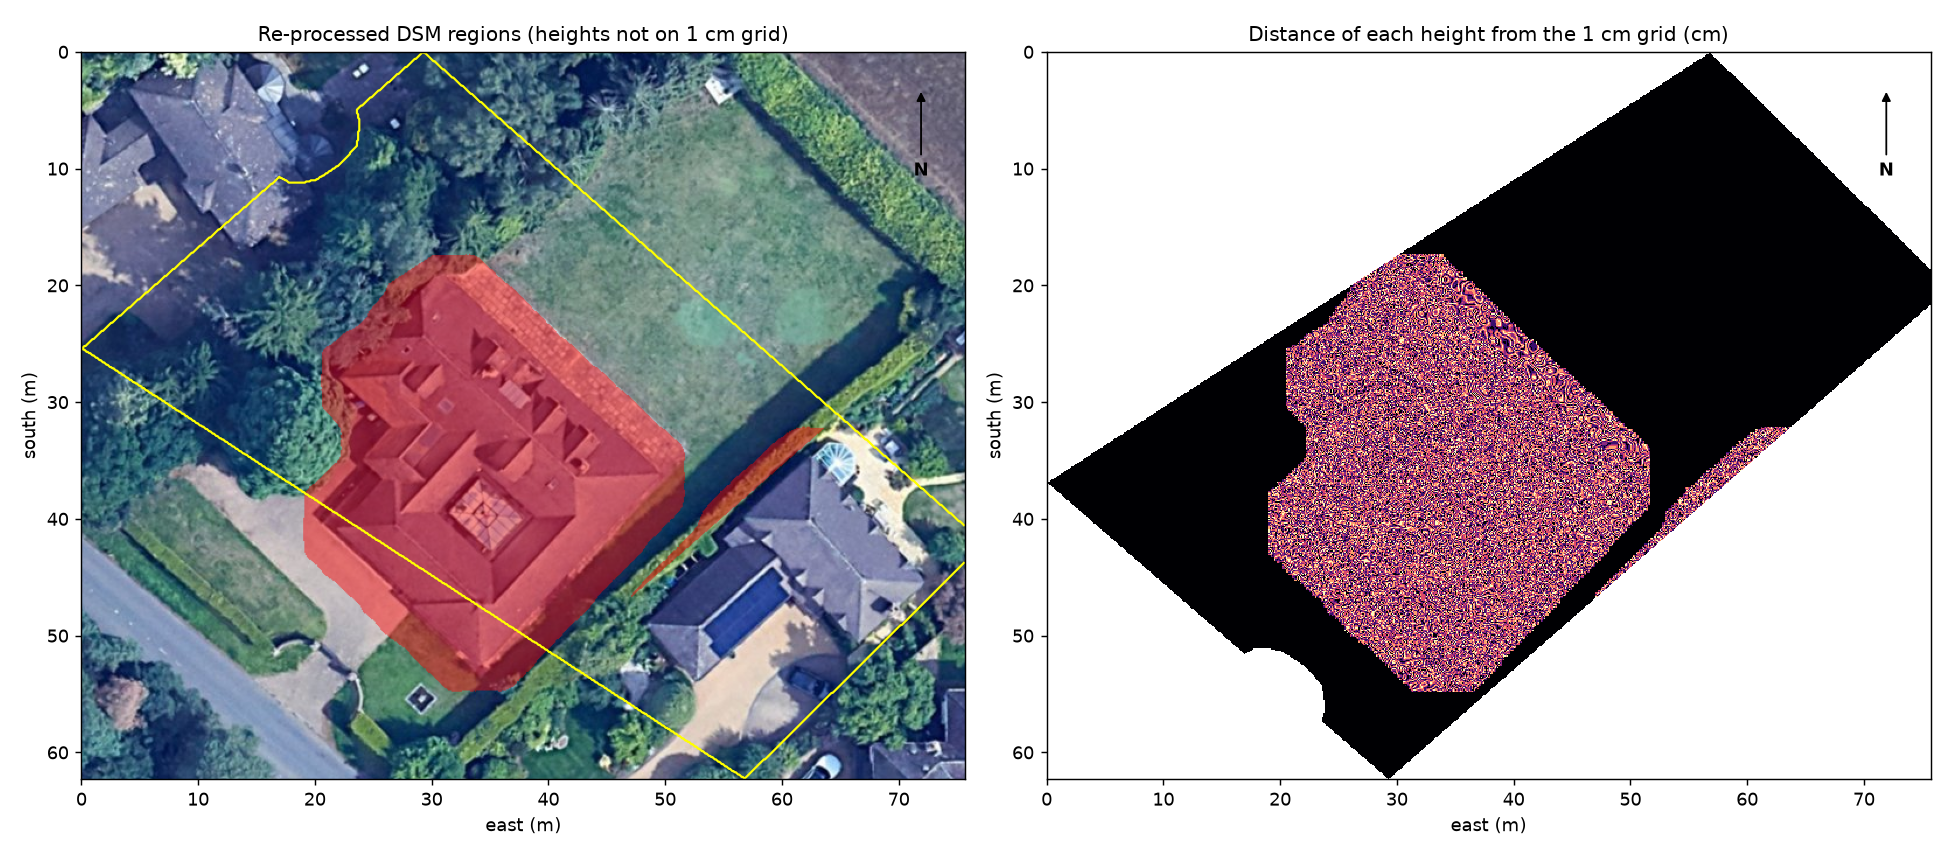
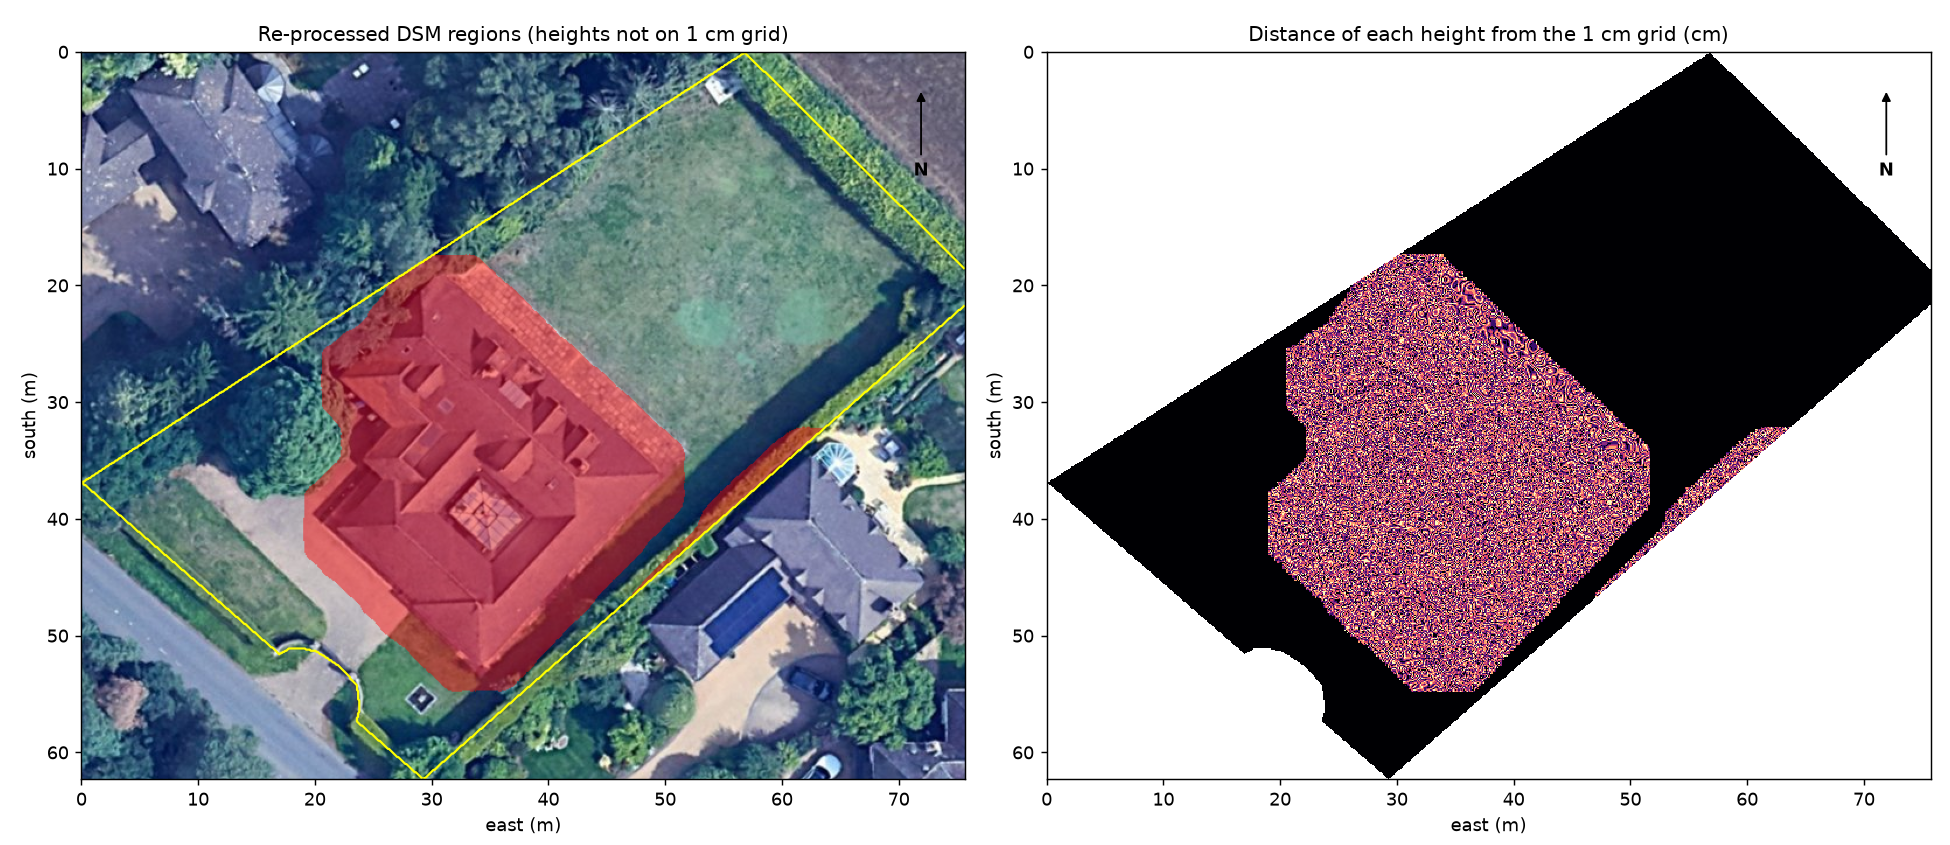
fix(viz): draw AOI outline with explicit pixel-centre coordinates
matplotlib's contour() treats origin/extent differently from imshow(),
which flipped the AOI outline vertically on the RGB panel. Plot the
contour on explicit x/y coordinates in local metres instead.
Figures only; no analysis results change.

diff --git a/src/roofsolar/viz.py b/src/roofsolar/viz.py
@@ -39,15 +39,23 @@ def _style(ax, title: str) -> None:
     )
 
 
+def _outline(
+    ax, mask: np.ndarray, pixel: tuple[float, float], color: str = "yellow", lw: float = 1.2
+) -> None:
+    """Draw a mask boundary using explicit pixel-centre coordinates (local metres).
+
+    Explicit coordinates avoid matplotlib's origin/extent conventions for contour, which
+    differ from imshow and silently flipped the outline vertically.
+    """
+    rows, cols = mask.shape
+    x = (np.arange(cols) + 0.5) * pixel[0]
+    y = (np.arange(rows) + 0.5) * pixel[1]
+    ax.contour(x, y, mask.astype(float), levels=[0.5], colors=color, linewidths=lw)
+
+
 def _aoi_outline(ax, aoi: np.ndarray, ext) -> None:
-    ax.contour(
-        aoi.astype(float),
-        levels=[0.5],
-        colors="yellow",
-        linewidths=1.2,
-        extent=(ext[0], ext[1], ext[3], ext[2]),
-        origin="upper",
-    )
+    rows, cols = aoi.shape
+    _outline(ax, aoi, (ext[1] / cols, ext[2] / rows))
 
 
 def _compass_wheel(fig, rect, cmap) -> None:
